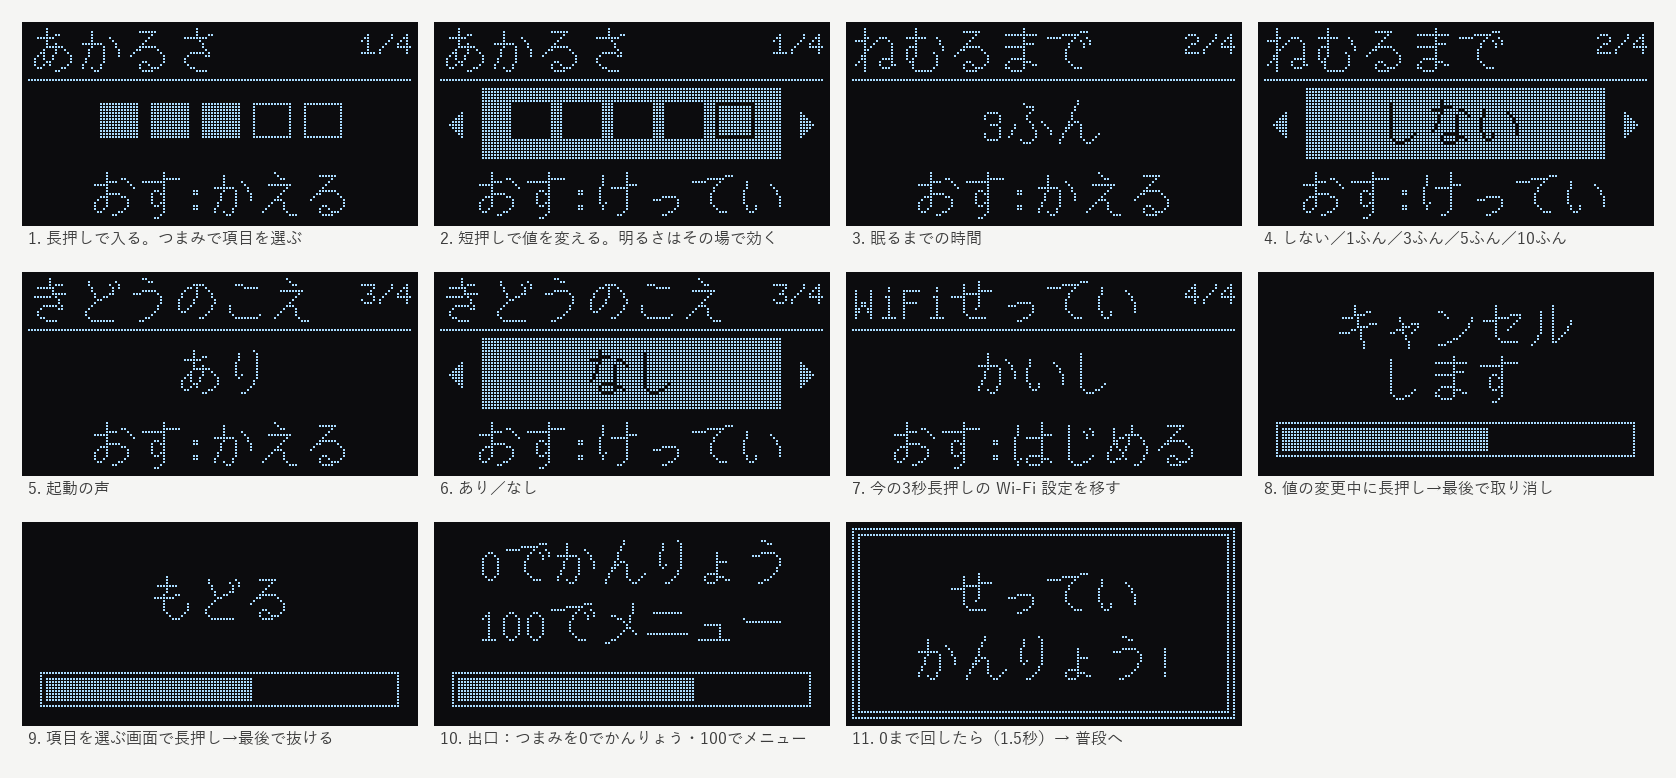
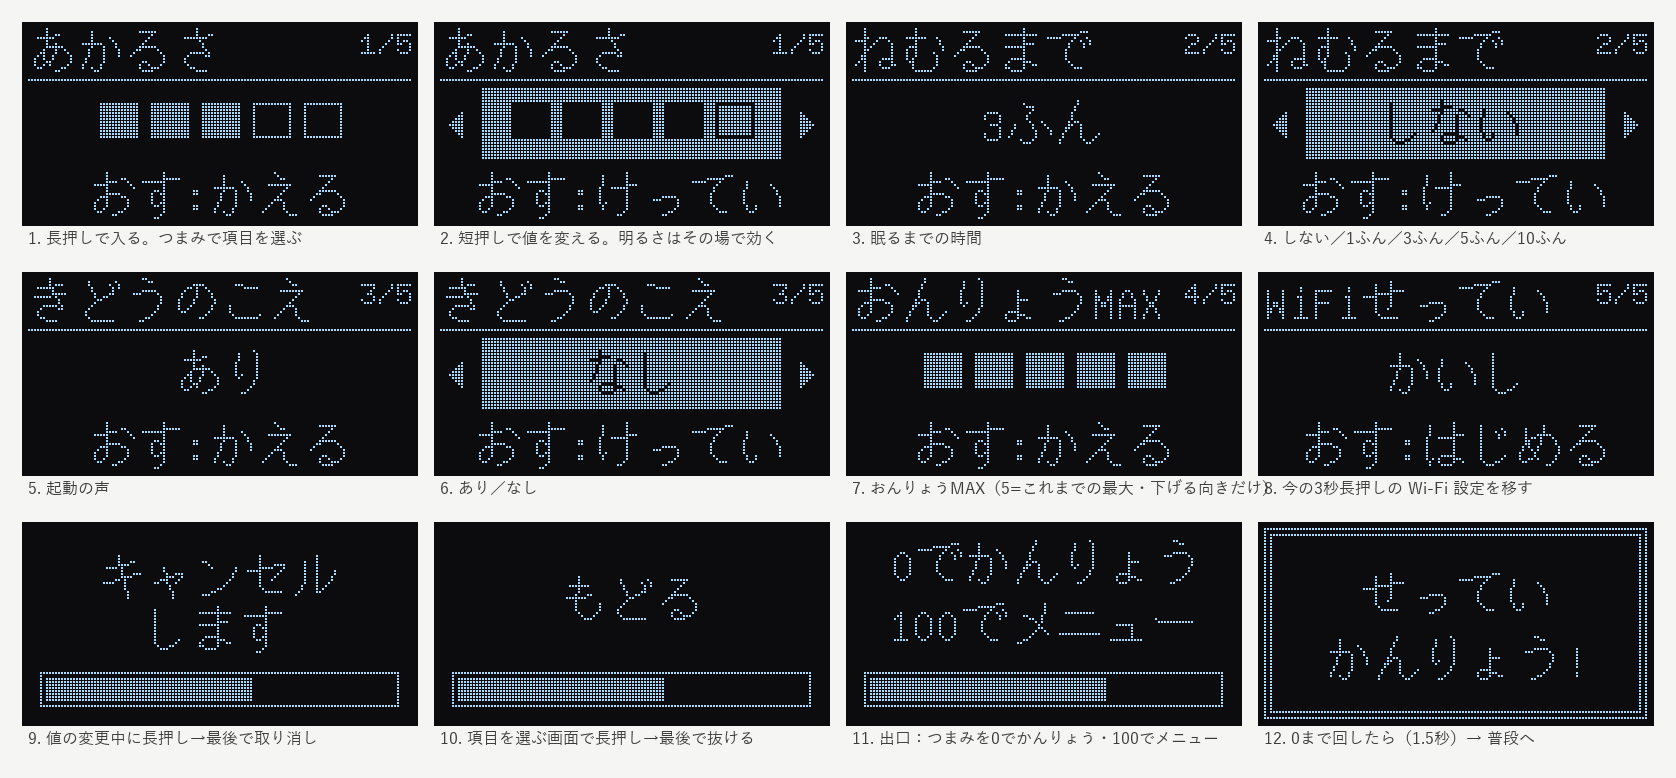
設定に「おんりょうMAX」（🔒 ユーザー 2026-09-12「設定追加しておこうよ」）: つまみ 100% の大きさを 5 段で。天井は KATANORI_KNOB_MAX_GAIN 0.70 のままで下げる向きだけ（-2dB 刻み）。メニューと katanori.local の両方から

diff --git a/firmware/esp32/src/main.cpp b/firmware/esp32/src/main.cpp
@@ -639,7 +639,8 @@ static void applyKnobVolume(int pct) {
     float g = 0.0f;
     if (pct > 0) {
         float db = (pct - 100) * 0.30f;
-        g = KATANORI_KNOB_MAX_GAIN * powf(10.0f, db / 20.0f);
+        // 天井（KATANORI_KNOB_MAX_GAIN）× 設定のおんりょうMAX（天井から下げる向きだけ）
+        g = KATANORI_KNOB_MAX_GAIN * katanori::settings.maxVolumeScale() * powf(10.0f, db / 20.0f);
     }
     katanori::audioIo.setGain(g);
 }
@@ -1210,6 +1211,10 @@ static void powerNetStop(bool wifiOff, const char* why) {
 static void applySettings() {
     if (!KATANORI_I2C_SILENCE) {
         u8g2.setContrast(powerDimmed ? oledDimContrast() : katanori::settings.contrast());
+    }
+    // おんりょうMAX を今のつまみの位置に掛け直す（鳴っていなければ次に鳴るときから効く）
+    if (knobPercent >= 0) {
+        applyKnobVolume(knobPercent);
     }
     uint32_t ms = katanori::settings.sleepMs();
     idleSleepEnabled = ms != 0;
@@ -1961,13 +1966,16 @@ static constexpr uint32_t kMenuTapMs = 400;
 /** 棒を出し始める時刻。短押しと棒が重ならないよう kMenuTapMs と同じにする。 */
 static constexpr uint32_t kMenuHoldShowMs = kMenuTapMs;
 
-static constexpr uint8_t kMenuItems = 4;
+static constexpr uint8_t kMenuItems = 5;
+/** 「WiFiせってい」の番号（値を持たず、押すと Wi-Fi 設定モードへ入る）。 */
+static constexpr uint8_t kMenuItemWifi = 4;
 /** 区切りの境目の遊び（3 度）。 */
 static constexpr uint16_t kMenuZoneHystRaw = (uint16_t)(3ul * 4096 / 360);
 /** 触らないとこの時間で出口へ進む（うっかり入った人を置き去りにしない）。 */
 static constexpr uint32_t kMenuTimeoutMs = 30000;
 // 画面の日本語フォント（b16_t_japanese1）には漢字も全角の「：」も無い。かなと ASCII だけ
-static const char* const kMenuTitle[kMenuItems] = {"あかるさ", "ねむるまで", "きどうのこえ", "WiFiせってい"};
+// 「おんりょうMAX」は 🔒 ユーザー 2026-09-12「設定追加しておこうよ」（Settings.h）。「さいだいおんりょう」は 145px で入らない
+static const char* const kMenuTitle[kMenuItems] = {"あかるさ", "ねむるまで", "きどうのこえ", "おんりょうMAX", "WiFiせってい"};
 static const char* const kMenuSleepLabel[katanori::Settings::kSleepOptions] = {
     "しない", "1ふん", "3ふん", "5ふん", "10ふん"};
 
@@ -1980,6 +1988,7 @@ static uint8_t menuOptionCount(uint8_t item) {
     case 0: return katanori::Settings::kBrightLevels;
     case 1: return katanori::Settings::kSleepOptions;
     case 2: return 2; // あり／なし
+    case 3: return katanori::Settings::kMaxVolLevels;
     default: return 1;
     }
 }
@@ -1990,6 +1999,7 @@ static uint8_t menuStoredValue(uint8_t item) {
     case 0: return katanori::settings.brightness() - 1;
     case 1: return katanori::settings.sleepIndex();
     case 2: return katanori::settings.bootVoice() ? 0 : 1;
+    case 3: return katanori::settings.maxVolume() - 1;
     default: return 0;
     }
 }
@@ -2129,7 +2139,7 @@ static void menuShortPress() {
     menuLastInputMs = millis();
     switch (menuMode) {
     case MenuMode::Browse:
-        if (menuItem == 3) {
+        if (menuItem == kMenuItemWifi) {
             // Wi-Fi 設定モードへ。抜けたら出口を通す（exitProvisioning）
             menuMode = MenuMode::Off;
             menuVolumeAfterProv = true;
@@ -2148,6 +2158,7 @@ static void menuShortPress() {
         case 0: katanori::settings.setBrightness(menuValue + 1); break;
         case 1: katanori::settings.setSleepIndex(menuValue); break;
         case 2: katanori::settings.setBootVoice(menuValue == 0); break;
+        case 3: katanori::settings.setMaxVolume(menuValue + 1); break;
         }
         menuMode = MenuMode::Browse;
         menuPickupZone = (int8_t)menuZone(knobRelAngle(menuKnobRaw), kMenuItems, -1);
@@ -2311,7 +2322,8 @@ static void drawMenuScreen() {
         u8g2.setFont(u8g2_font_b16_t_japanese1);
         switch (menuItem) {
         case 0:
-            for (int i = 0; i < katanori::Settings::kBrightLevels; ++i) {
+        case 3: // あかるさ・おんりょうMAX は 5 段のブロック
+            for (int i = 0; i < 5; ++i) {
                 int x = 24 + i * 17;
                 if (i <= v) {
                     u8g2.drawBox(x, y - 13, 13, 12);
@@ -2333,7 +2345,7 @@ static void drawMenuScreen() {
         }
         // 「OFFのてまえ」の表示は 2026-09-11 に外した（ユーザー「そもそもOFFにならないように
         // なってますよね。それならメッセージ不要では」）。メニューの間はファームの OFF 判定をしない
-        drawMenuCentered(editing ? "おす:けってい" : (menuItem == 3 ? "おす:はじめる" : "おす:かえる"), 62);
+        drawMenuCentered(editing ? "おす:けってい" : (menuItem == kMenuItemWifi ? "おす:はじめる" : "おす:かえる"), 62);
     }
 
     u8g2.setFontMode(0);

diff --git a/firmware/esp32/src/Settings.cpp b/firmware/esp32/src/Settings.cpp
@@ -64,6 +64,13 @@ void handleRoot() {
     h += String("<label><input type=radio name=v value=0") + (settings.bootVoice() ? "" : " checked") +
          ">鳴らさない</label></fieldset>";
 
+    h += F("<fieldset><legend>音量の上限（つまみを回し切ったときの大きさ）</legend>");
+    for (uint8_t lv = 1; lv <= Settings::kMaxVolLevels; ++lv) {
+        h += "<label><input type=radio name=m value=" + String(lv) +
+             (settings.maxVolume() == lv ? " checked" : "") + ">" + String(lv) + "</label>";
+    }
+    h += F("<div style='font-size:13px;color:#666;clear:both'>5 がこれまでの最大。1 つ下げるごとに少し小さくなる（これより上には設定できない）</div></fieldset>");
+
     h += F("<button type=submit>保存</button></form>"
            "<p style='font-size:13px;color:#666'>機体のメニュー（会話ボタンを長押し）からも同じ設定を変えられます。</p>"
            "</body></html>");
@@ -80,6 +87,9 @@ void handleSave() {
     if (settingsHttp.hasArg("v")) {
         settings.setBootVoice(settingsHttp.arg("v").toInt() != 0);
     }
+    if (settingsHttp.hasArg("m")) {
+        settings.setMaxVolume((uint8_t)settingsHttp.arg("m").toInt());
+    }
     Serial.printf("[CFG] 設定ページから保存しました（%s）\n",
                   settingsHttp.client().remoteIP().toString().c_str());
     settingsHttp.sendHeader("Location", "/?saved=1");
@@ -94,6 +104,13 @@ uint8_t Settings::contrastFor(uint8_t level) {
     return kContrast[level - 1];
 }
 
+float Settings::maxVolumeScaleFor(uint8_t level) {
+    if (level < 1) level = 1;
+    if (level > kMaxVolLevels) level = kMaxVolLevels;
+    // 5 → 0dB, 4 → -2dB, 3 → -4dB, 2 → -6dB, 1 → -8dB（聞いた感じで均等に下がるよう dB で刻む）
+    return powf(10.0f, -2.0f * (kMaxVolLevels - level) / 20.0f);
+}
+
 uint16_t Settings::sleepMinutesAt(uint8_t idx) {
     return idx < kSleepOptions ? kSleepMin[idx] : kSleepMin[2];
 }
@@ -104,7 +121,9 @@ void Settings::begin() {
     bright_ = p.getUChar("bright", kBrightLevels);
     sleepIdx_ = p.getUChar("sleep", 2);
     bootVoice_ = p.getUChar("voice", 1) != 0;
+    maxVol_ = p.getUChar("maxvol", kMaxVolLevels);
     p.end();
+    if (maxVol_ < 1 || maxVol_ > kMaxVolLevels) maxVol_ = kMaxVolLevels;
     if (bright_ < 1 || bright_ > kBrightLevels) bright_ = kBrightLevels;
     if (sleepIdx_ >= kSleepOptions) sleepIdx_ = 2;
     print();
@@ -145,11 +164,18 @@ void Settings::setBootVoice(bool on) {
     changed();
 }
 
+void Settings::setMaxVolume(uint8_t level) {
+    if (level < 1 || level > kMaxVolLevels || level == maxVol_) return;
+    maxVol_ = level;
+    save("maxvol", level);
+    changed();
+}
+
 void Settings::print() const {
     uint16_t m = sleepMinutesAt(sleepIdx_);
-    Serial.printf("[CFG] 明るさ %u/5（0x%02X）・眠るまで %s・起動の声 %s\n",
+    Serial.printf("[CFG] 明るさ %u/5（0x%02X）・眠るまで %s・起動の声 %s・おんりょうMAX %u/5（天井の %.2f 倍）\n",
                   bright_, contrast(), m ? (String(m) + "分").c_str() : "眠らない",
-                  bootVoice_ ? "鳴らす" : "鳴らさない");
+                  bootVoice_ ? "鳴らす" : "鳴らさない", maxVol_, maxVolumeScale());
 }
 
 void Settings::webLoop() {

diff --git a/firmware/esp32/src/Settings.h b/firmware/esp32/src/Settings.h
@@ -3,12 +3,15 @@
  *  Settings - 利用者が変えられる設定（2026-09-11 追加）
  *
  *  🔒 ユーザー 2026-09-11: 変えたいのは「画面の明るさ」「眠るまでの時間」「起動の声」。
+ *  🔒 同 2026-09-12「（つまみの 100% をゲイン 0.70 で頭打ちにしているなら）設定追加しておこうよ」:
+ *     音量の上限（おんりょうMAX）。ただし天井はファームの KATANORI_KNOB_MAX_GAIN（0.70）のままで、
+ *     設定で選べるのはそこから下げる方向だけ（5 = 天井・1 つ下げるごとに -2dB）。
  *  変える入口は 2 つで、どちらも同じ値（NVS の "cfg"）を読み書きする。
  *   - 機体のメニュー（会話ボタン長押し。main.cpp の「メニュー」の節・見本 docs/img_menu_mock.png）
  *   - ブラウザの設定ページ（同じ Wi-Fi から http://katanori.local/ 。このファイル）
  *
- *  設定ページに合言葉は付けていない。変えられるのはこの 3 つだけで、同じ LAN の他人に
- *  変えられても耳や機体を傷めるものではないため（音量の上限や unmute はここに置かない）。
+ *  設定ページに合言葉は付けていない。同じ LAN の他人に変えられても耳や機体を傷めるものしか
+ *  置かないため。音量の上限も、天井より上には上げられないので同じ扱い（unmute は置かない）。
  * ============================================================================
  */
 
@@ -23,6 +26,7 @@ class Settings {
 public:
     static constexpr uint8_t kBrightLevels = 5;   // あかるさ 1〜5
     static constexpr uint8_t kSleepOptions = 5;   // しない／1／3／5／10 分
+    static constexpr uint8_t kMaxVolLevels = 5;   // おんりょうMAX 1〜5（5 = ファームの天井）
 
     /** NVS から読む。setup() の早いうちに 1 回。 */
     void begin();
@@ -43,9 +47,16 @@ public:
     /** 起動の声（「カタノリ、起動しました」）を鳴らすか。 */
     bool bootVoice() const { return bootVoice_; }
 
+    /** おんりょうMAX 1〜5。 */
+    uint8_t maxVolume() const { return maxVol_; }
+    /** 天井（ceiling）に対する倍率。5 で 1.0、1 つ下げるごとに -2dB。 */
+    static float maxVolumeScaleFor(uint8_t level);
+    float maxVolumeScale() const { return maxVolumeScaleFor(maxVol_); }
+
     void setBrightness(uint8_t level);
     void setSleepIndex(uint8_t idx);
     void setBootVoice(bool on);
+    void setMaxVolume(uint8_t level);
 
     /** 値が変わったときに呼ぶ関数（main.cpp が画面の明るさや眠る時間に反映する）。 */
     void setOnChange(void (*fn)()) { onChange_ = fn; }
@@ -65,6 +76,7 @@ private:
     uint8_t bright_ = kBrightLevels;  // 既定は今までと同じ明るさ（0xCF）
     uint8_t sleepIdx_ = 2;            // 既定は今までと同じ 3 分
     bool bootVoice_ = true;
+    uint8_t maxVol_ = kMaxVolLevels;  // 既定は今までと同じ（天井のまま）
     void (*onChange_)() = nullptr;
     bool webUp_ = false;
 };
